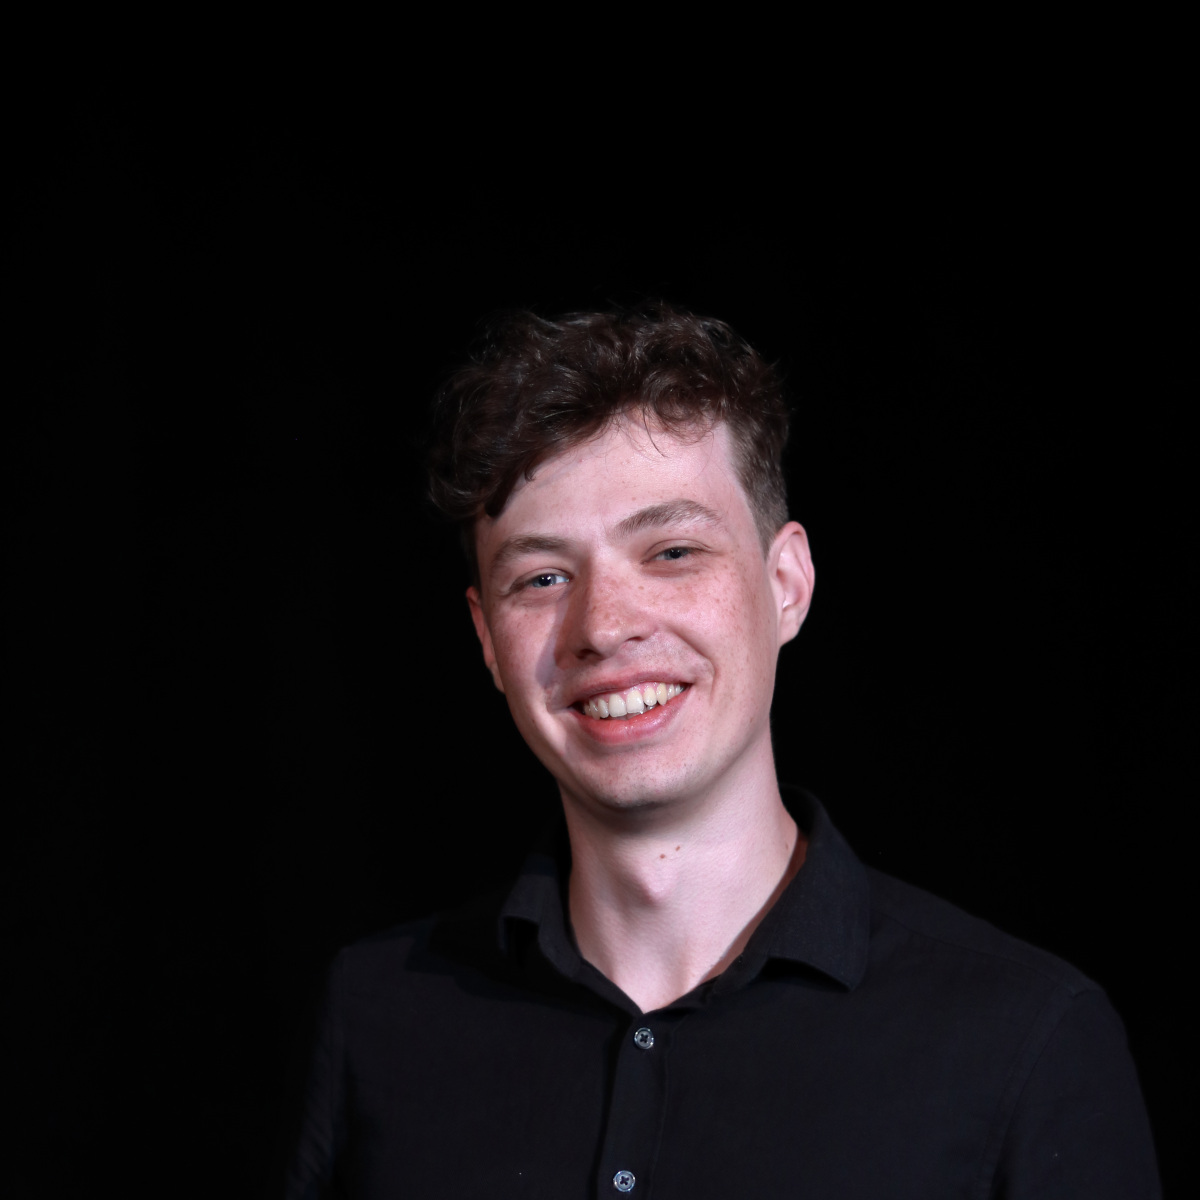
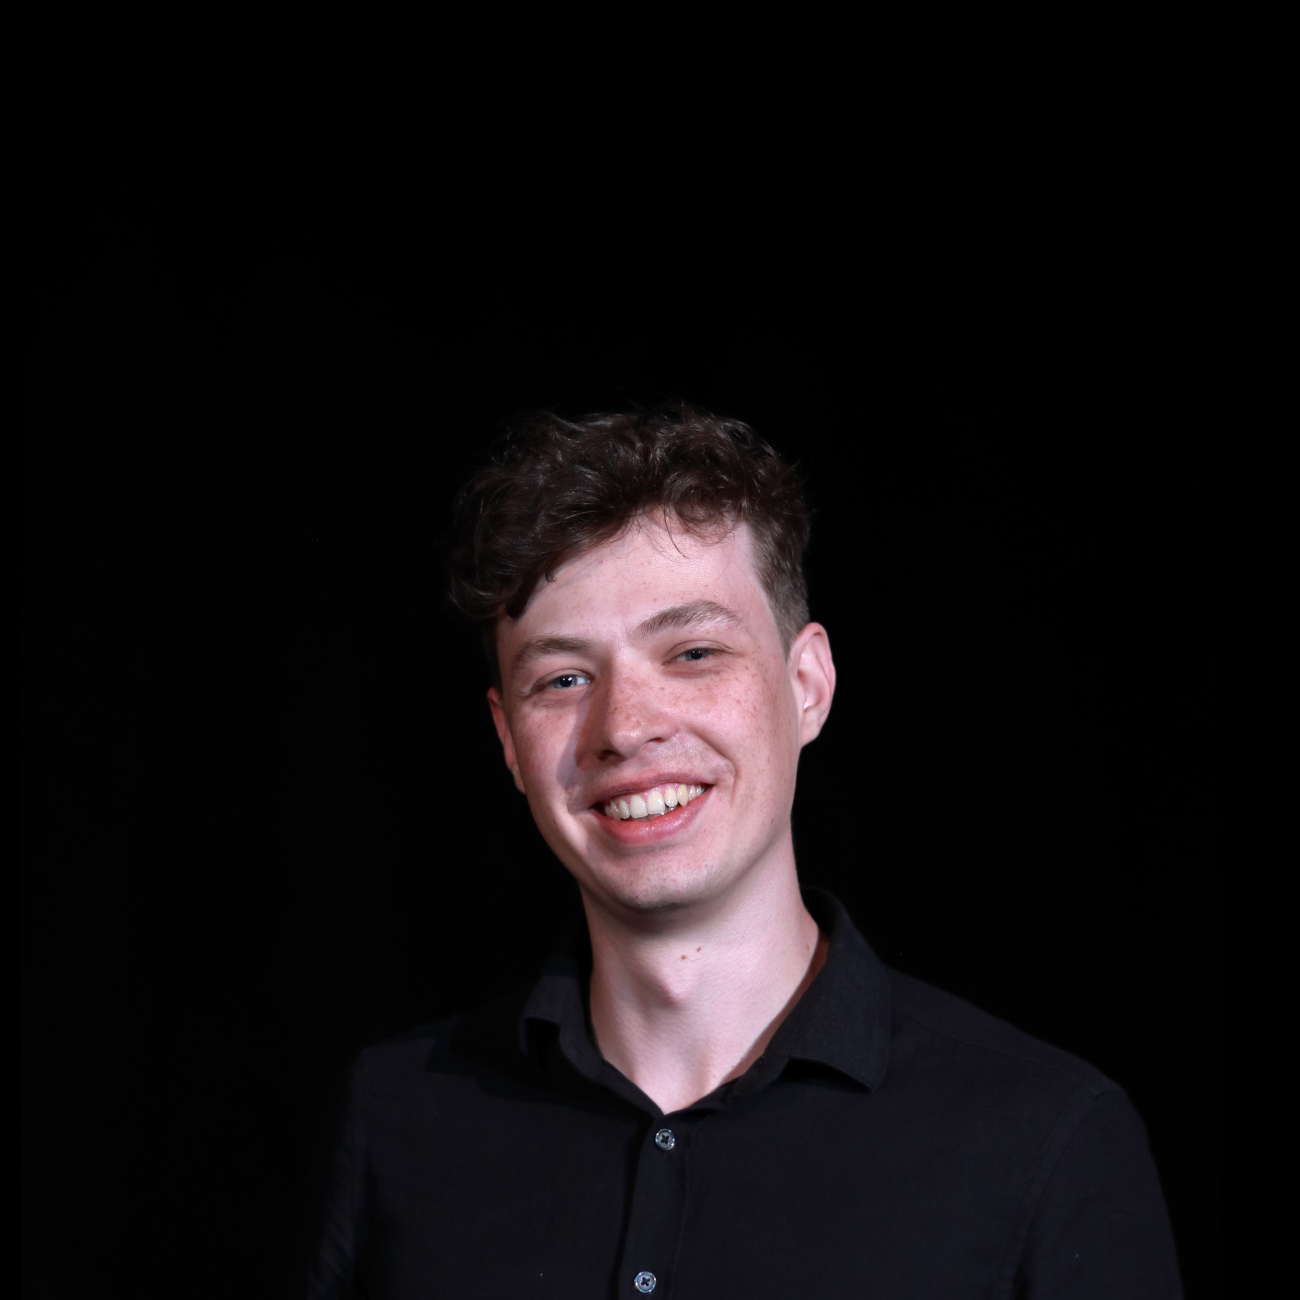
procisteni fotek, pridani improshow plakatu

Changed region(s): [[0.37, 0.2467, 0.9867, 1.0], [0.4933, 0.9558, 0.5242, 1.0]]

diff --git a/index.html b/index.html
@@ -173,7 +173,7 @@
                 <div class="repertoire-grid">
                     <div class="repertoire-card">
                         <div class="repertoire-image">
-                            <img src="images/improshow.jpg" alt="Divadelní představení Improshow - soubor Vitium">
+                            <img src="images/improshow1.jpg" alt="Divadelní představení Improshow - soubor Vitium" style="background-color: black; object-fit: contain;">
                         </div>
                         <h3 class="repertoire-title">Improshow</h3>
                         <p class="repertoire-type">Improvizace</p>
@@ -184,7 +184,7 @@
                     </div>
                     <div class="repertoire-card">
                         <div class="repertoire-image">
-                            <img src="images/prijdu_hned_plakat.png" alt="Divadelní představení Přijdu hned - soubor Vitium">
+                            <img src="images/prijdu_hned_plakat.jpg" alt="Divadelní představení Přijdu hned - soubor Vitium">
                             <div class="repertoire-tag">Připravujeme</div>
                         </div>
                         <h3 class="repertoire-title">Přijdu hned</h3>
@@ -225,30 +225,21 @@
             <a class="gallery-item" href="gallery/foto1.jpeg" target="_blank"><img src="gallery/foto1.jpeg" alt="Zkouška amatérského divadelního souboru Vitium v Praze" loading="lazy" /></a>
             <a class="gallery-item" href="gallery/foto2.jpeg" target="_blank"><img src="gallery/foto2.jpeg" alt="Zkouška amatérského divadelního souboru Vitium v Praze" loading="lazy" /></a>
             <a class="gallery-item" href="gallery/foto3.jpeg" target="_blank"><img src="gallery/foto3.jpeg" alt="Zkouška amatérského divadelního souboru Vitium v Praze" loading="lazy" /></a>
-            <a class="gallery-item" href="gallery/foto4.jpeg" target="_blank"><img src="gallery/foto4.jpeg" alt="Zkouška amatérského divadelního souboru Vitium v Praze" loading="lazy" /></a>
-            <a class="gallery-item" href="gallery/foto5.jpeg" target="_blank"><img src="gallery/foto5.jpeg" alt="Zkouška amatérského divadelního souboru Vitium v Praze" loading="lazy" /></a>
-            <a class="gallery-item" href="gallery/foto6.jpeg" target="_blank"><img src="gallery/foto6.jpeg" alt="Zkouška amatérského divadelního souboru Vitium v Praze" loading="lazy" /></a>
             <a class="gallery-item" href="gallery/foto7.jpeg" target="_blank"><img src="gallery/foto7.jpeg" alt="Zkouška amatérského divadelního souboru Vitium v Praze" loading="lazy" /></a>
             <a class="gallery-item" href="gallery/foto8.jpeg" target="_blank"><img src="gallery/foto8.jpeg" alt="Zkouška amatérského divadelního souboru Vitium v Praze" loading="lazy" /></a>
             <a class="gallery-item" href="gallery/foto9.jpeg" target="_blank"><img src="gallery/foto9.jpeg" alt="Zkouška amatérského divadelního souboru Vitium v Praze" loading="lazy" /></a>
-            <a class="gallery-item" href="gallery/foto10.jpeg" target="_blank"><img src="gallery/foto10.jpeg" alt="Zkouška amatérského divadelního souboru Vitium v Praze" loading="lazy" /></a>
-            <a class="gallery-item" href="gallery/foto11.jpeg" target="_blank"><img src="gallery/foto11.jpeg" alt="Zkouška amatérského divadelního souboru Vitium v Praze" loading="lazy" /></a>
             <a class="gallery-item" href="gallery/foto12.jpeg" target="_blank"><img src="gallery/foto12.jpeg" alt="Zkouška amatérského divadelního souboru Vitium v Praze" loading="lazy" /></a>
             <a class="gallery-item" href="gallery/foto13.jpeg" target="_blank"><img src="gallery/foto13.jpeg" alt="Zkouška amatérského divadelního souboru Vitium v Praze" loading="lazy" /></a>
             <a class="gallery-item" href="gallery/foto14.jpeg" target="_blank"><img src="gallery/foto14.jpeg" alt="Zkouška amatérského divadelního souboru Vitium v Praze" loading="lazy" /></a>
-            <a class="gallery-item" href="gallery/foto15.jpeg" target="_blank"><img src="gallery/foto15.jpeg" alt="Zkouška amatérského divadelního souboru Vitium v Praze" loading="lazy" /></a>
             <a class="gallery-item" href="gallery/foto16.jpeg" target="_blank"><img src="gallery/foto16.jpeg" alt="Zkouška amatérského divadelního souboru Vitium v Praze" loading="lazy" /></a>
-            <a class="gallery-item" href="gallery/foto17.jpeg" target="_blank"><img src="gallery/foto17.jpeg" alt="Zkouška amatérského divadelního souboru Vitium v Praze" loading="lazy" /></a>
             <a class="gallery-item" href="gallery/foto18.jpeg" target="_blank"><img src="gallery/foto18.jpeg" alt="Zkouška amatérského divadelního souboru Vitium v Praze" loading="lazy" /></a>
             <a class="gallery-item" href="gallery/foto19.jpeg" target="_blank"><img src="gallery/foto19.jpeg" alt="Zkouška amatérského divadelního souboru Vitium v Praze" loading="lazy" /></a>
             <a class="gallery-item" href="gallery/foto20.jpeg" target="_blank"><img src="gallery/foto20.jpeg" alt="Zkouška amatérského divadelního souboru Vitium v Praze" loading="lazy" /></a>
             <a class="gallery-item" href="gallery/foto21.jpeg" target="_blank"><img src="gallery/foto21.jpeg" alt="Zkouška amatérského divadelního souboru Vitium v Praze" loading="lazy" /></a>
             <a class="gallery-item" href="gallery/foto22.jpeg" target="_blank"><img src="gallery/foto22.jpeg" alt="Zkouška amatérského divadelního souboru Vitium v Praze" loading="lazy" /></a>
-            <a class="gallery-item" href="gallery/foto23.jpeg" target="_blank"><img src="gallery/foto23.jpeg" alt="Zkouška amatérského divadelního souboru Vitium v Praze" loading="lazy" /></a>
-            <a class="gallery-item" href="gallery/foto24.jpeg" target="_blank"><img src="gallery/foto24.jpeg" alt="Zkouška amatérského divadelního souboru Vitium v Praze" loading="lazy" /></a>
-            <a class="gallery-item" href="gallery/foto25.jpeg" target="_blank"><img src="gallery/foto25.jpeg" alt="Zkouška amatérského divadelního souboru Vitium v Praze" loading="lazy" /></a>
             <a class="gallery-item" href="gallery/foto26.jpeg" target="_blank"><img src="gallery/foto26.jpeg" alt="Zkouška amatérského divadelního souboru Vitium v Praze" loading="lazy" /></a>   
             <a class="gallery-item" href="gallery/foto27.jpeg" target="_blank"><img src="gallery/foto27.jpeg" alt="Zkouška amatérského divadelního souboru Vitium v Praze" loading="lazy" /></a>   
+            <a class="gallery-item" href="gallery/foto28.jpg" target="_blank"><img src="gallery/foto28.jpg" alt="Plakát na Improshow v divadle Spektrum v Praze" loading="lazy" /></a>   
         </div>
     </div>
 </section>
@@ -336,6 +327,14 @@
                     <p class="member-role">Herecký soubor</p>
                     <p class="member-bio">Její přirozený talent pro klasický text i improvizaci dlouho dřímal, aby teď mohl na jevišti naplno zazářit.</p>
                 </div>
+                <!-- <div class="member-card">
+                    <div class="member-image">
+                        <img src="images/p_mike.jpg" alt="Portrét technika amatérského divadelního souboru Vitium Praha - Mike Leskiv">
+                    </div>
+                    <h3 class="member-name">Mike Leskiv</h3>
+                    <p class="member-role">Technické zajištění</p>
+                    <p class="member-bio">Technický motor souboru, který svou prací v zákulisí zajišťuje, aby vše fungovalo přesně tak, jak má - i když on sám zůstává skryt ve stínu.</p>
+                </div> -->
             </div>
         </div>
     </section>
